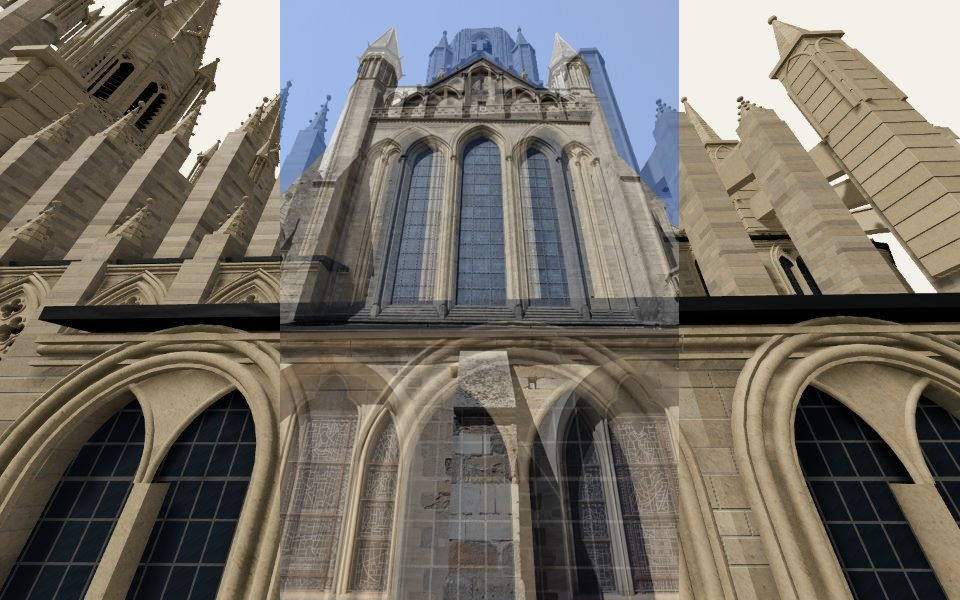
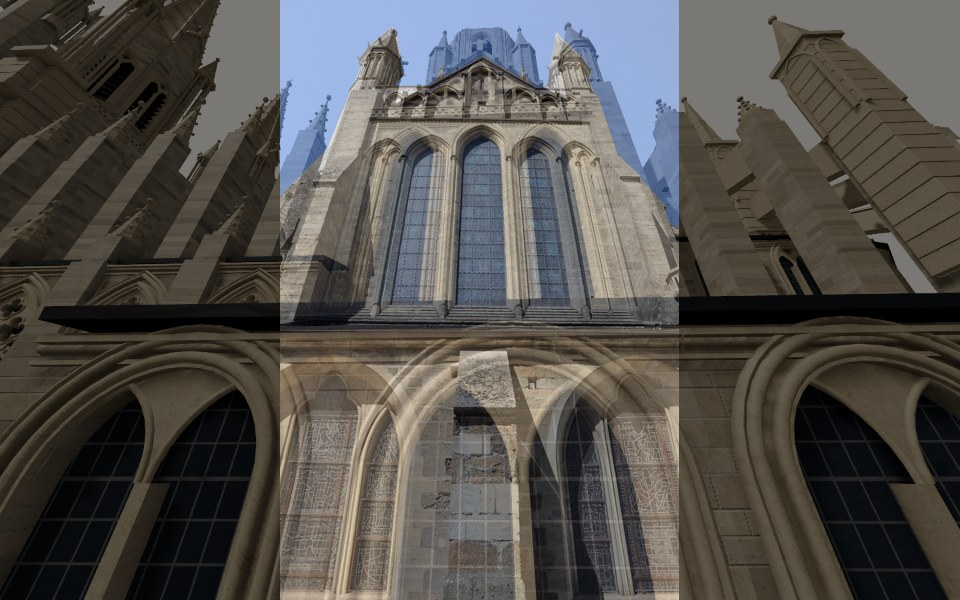
Redraw the corner turrets of the transept fronts from the south-transept photograph
The turrets were a plain octagonal shaft from the ground to 29.5 m under a cone
under 2 m high. The photograph shows a square pier, an octagonal drum of
colonnettes under a frieze of small round blind arches, and an octagonal cone
laid in scales with a spout at four corners.

Back-projecting the photographed features through the fitted camera shows the
overhang recorded in pass 2 (1.285 against 1.08) compared metres with pixels:
the turrets' distance from the axis was about right (7.8 m +/- 0.4, the model's
8.08 m), their height and form were not. They now stand with the pier top at
26.4 m, the drum's cornice at 32 m and the cone's tip at 37.6 m (+/- 1.5 m,
from a single photograph whose two turrets differ by about 2 m in the fitted
view). The evidence notes, the pass-3 capture and overlay, and the golden
digests are updated.

Claude-Session: https://claude.ai/code/session_01QG7CPGgp3RrbBjBJr8BFyF

diff --git a/community/cathedrale-de-coutances/cathedrale-de-coutances.bricks.js b/community/cathedrale-de-coutances/cathedrale-de-coutances.bricks.js
@@ -106,6 +106,40 @@ function fillette(G, k, c, y0, top, tip, r, ph, extra = {}) {
   }
   spirelet(G, k, c, top + .4, tip, 2 * r * .95, ph, extra);
 }
+// A turret of the Norman transept fronts, as the photograph of the south front shows it: a square pier that
+// batters up to a ledge, an octagonal drum ringed by slender colonnettes under a frieze of small round blind
+// arches, and an octagonal cone laid in scales, with a spout at four of its corners. `c` [u, v] is its axis;
+// tw {width (the drum), ledge (the top of the pier), top (the drum's cornice), tip, pier (its width at the
+// ledge, default 1.1 times the drum)}.
+function normanTurret(G, k, c, tw, ph) {
+  const w = tw.width, ledge = tw.ledge ?? tw.top - 3, top = tw.top, pier = tw.pier ?? w, foot = pier + .5, tint = () => G.tint(G.stone);
+  const wide = y => foot - (foot - pier) * Math.min(1, y / ledge);
+  if (G.mesh) {
+    const ys = []; for (let y = 0; y < ledge - .05; y += 1.2) ys.push(y); ys.push(ledge);
+    G.mesh.loft(c, ys, y => wide(y) / 2 * Math.SQRT2, ph, {}, {sides: 4, turn: 0, course: .35, step: 1.2});
+    G.mesh.loft(c, [ledge, ledge + .3], y => (pier + .4 - (y - ledge) / .3 * .25) / 2 * Math.SQRT2, ph, {}, {sides: 4, turn: 0, course: .35, step: .3});
+  } else for (let y = 0; y < ledge - .05;) { const h = Math.min(1, ledge - y); G.box('stone', c, y + h / 2, [wide(y + h / 2), h * .96, wide(y + h / 2)], [1, 0], tint(), ph); y += h; }
+  const y0 = ledge + .3, y1 = top - .5, apothem = w / 2 * Math.cos(Math.PI / 8), face = Math.PI / 4;
+  shaft(G, k, c, y0, y1, w, ph);
+  shaft(G, k, c, y1 - .05, top, w * 1.08, ph);
+  // Colonnettes on every face and on every arris, the frieze of blind arches between them.
+  for (let i = 0; i < 16; i++) {
+    const a = i * face / 2, r = i % 2 ? w / 2 : apothem + .05, q = G.V(c[0] + Math.cos(a) * r, 0, c[1] + Math.sin(a) * r);
+    k.turned('drum', 'stone', [q.x, (y0 + y1 - .5) / 2, q.z], [.18, y1 - .5 - y0], 0, tint(), ph, y0);
+    k.turned('drum', 'stone', [q.x, y0 + .12, q.z], [.27, .24], 0, tint(), ph, y0);
+    k.turned('drum', 'stone', [q.x, y1 - .56, q.z], [.27, .2], 0, tint(), ph, y1 - .66);
+  }
+  if (G.mesh) for (let j = 0; j < 8; j++) {
+    const phi = j * face, n = [Math.cos(phi), Math.sin(phi)], tg = [-n[1], n[0]], F = (ss, y, off) => [c[0] + n[0] * (apothem + off) + tg[0] * ss, y, c[1] + n[1] * (apothem + off) + tg[1] * ss];
+    for (const ss of [-.24, .24]) G.arch(F, ss, .38, y1 - .78, .03, .1, ph, {}, 'round', 3);
+  }
+  k.turned('octagon', 'stone', G.V(c[0], top + .2, c[1]).toArray(), [w * 1.2, .4], 0, tint(), ph, top);
+  spirelet(G, k, c, top + .4, tw.tip, w * 1.15, ph);
+  for (let j = 0; j < 4; j++) {
+    const a = (j + .5) * Math.PI / 2 + Math.PI / 4, r = w * .6, y = top + .6;
+    G.beam('stone', [c[0] + Math.cos(a) * r * .85, y, c[1] + Math.sin(a) * r * .85], [c[0] + Math.cos(a) * (r + .32), y - .12, c[1] + Math.sin(a) * (r + .32)], .2, tint(), ph);
+  }
+}
 
 export default {
   // A Gothic church body (the kit's `basilica`) under slate roofs, as in Normandy and Brittany: the same
@@ -531,8 +565,9 @@ export default {
 
   // The end of a Norman transept arm, facing -u from the front line (u = 0): tall lancets side by side (their
   // sill raised where an annex stands before them), a gable with blind lancets rising to its apex, and two
-  // turrets clad with shafts, crowned by stone cones.
-  //   width, thick, eave, apex, windows {count, width, sill, spring}, gable {count}, turrets {width, top, tip}
+  // turrets (a pier, a drum of colonnettes and blind arches, a scaled cone).
+  //   width, thick, eave, apex, windows {count, width, sill, spring}, gable {count},
+  //   turrets {width (the drum), ledge (the top of the pier), top (the drum's cornice), tip, pier, offset (of the axis beyond the front's end, in drum widths), depth (of the axis behind the front face)}
   transeptFront(k, e, P) {
     const G = gothicKit(k, e, P), hw = e.width / 2, t = e.thick ?? 1.8, out = [-1, 0], W = e.windows, n = W.count ?? 3, step = (2 * hw - 2) / n;
     G.wall([t / 2, -hw], [t / 2, hw], 0, e.eave, t, out, Array.from({length: n}, (_, i) => ({kind: 'pointed', s: 1 + step * (i + .5), w: W.width ?? step - 1, sill: W.sill, spring: W.spring + (i === (n - 1) / 2 ? W.middle ?? 0 : 0), twin: W.twin ?? false, margin: 0})), G.phase);
@@ -550,13 +585,7 @@ export default {
       G.arch(F, s, gw - .2, spring, 0, .24, G.phase, {}, 'pointed', 3);
     }
     const tw = e.turrets;
-    if (tw) for (const side of [-1, 1]) {
-      const c = [t / 2 - .2, side * (hw + tw.width * .3)];
-      shaft(G, k, c, 0, tw.top, tw.width, G.phase);
-      for (let i = 0; i < 8; i++) { const a = (i + .5) / 8 * Math.PI * 2, q = G.V(c[0] + Math.cos(a) * tw.width * .52, 0, c[1] + Math.sin(a) * tw.width * .52); k.turned('drum', 'stone', [q.x, tw.top * .6, q.z], [.22, tw.top * .78], 0, G.tint(G.stone), G.phase, tw.top * .2); }
-      k.turned('octagon', 'stone', G.V(c[0], tw.top + .2, c[1]).toArray(), [tw.width * 1.2, .4], 0, G.tint(G.stone), G.phase, tw.top);
-      spirelet(G, k, c, tw.top + .4, tw.tip, tw.width * .95, G.phase);
-    }
+    if (tw) for (const side of [-1, 1]) normanTurret(G, k, [tw.depth ?? 1.1, side * (hw + tw.width * (tw.offset ?? .3))], tw, G.phase);
   },
 
   // A square Norman turret with a stone cone: a shaft laid course by course with a blind arcade on each face and
